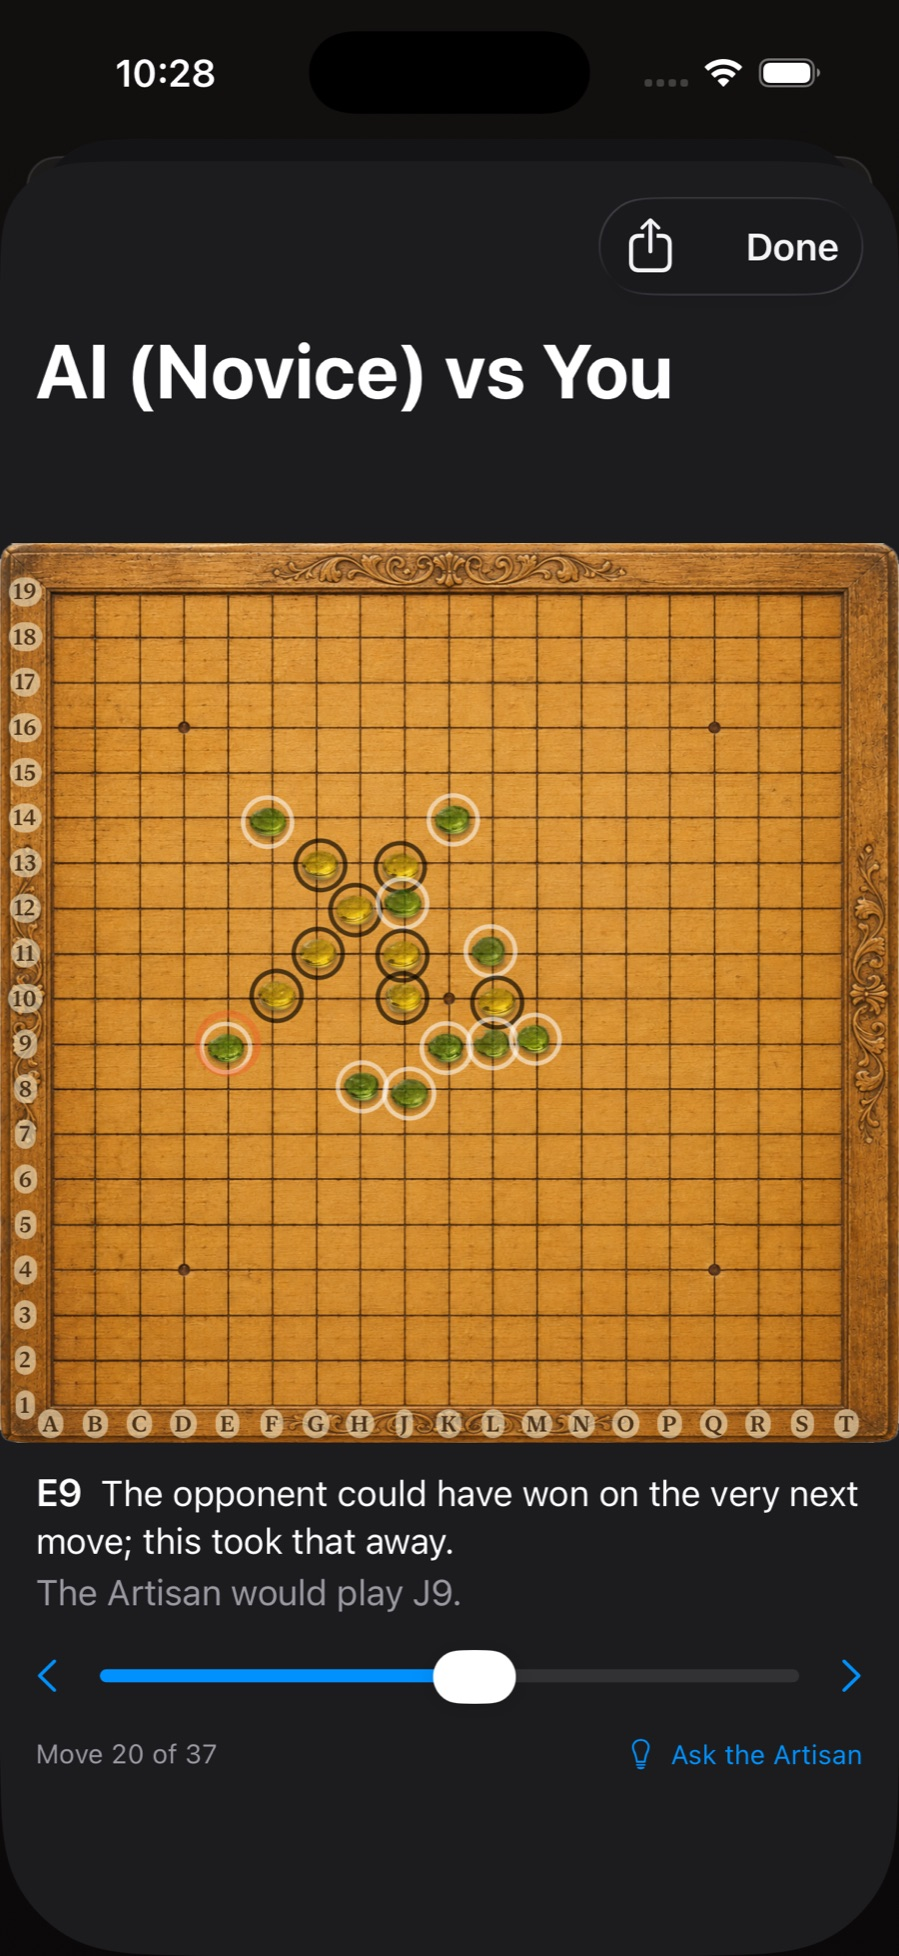
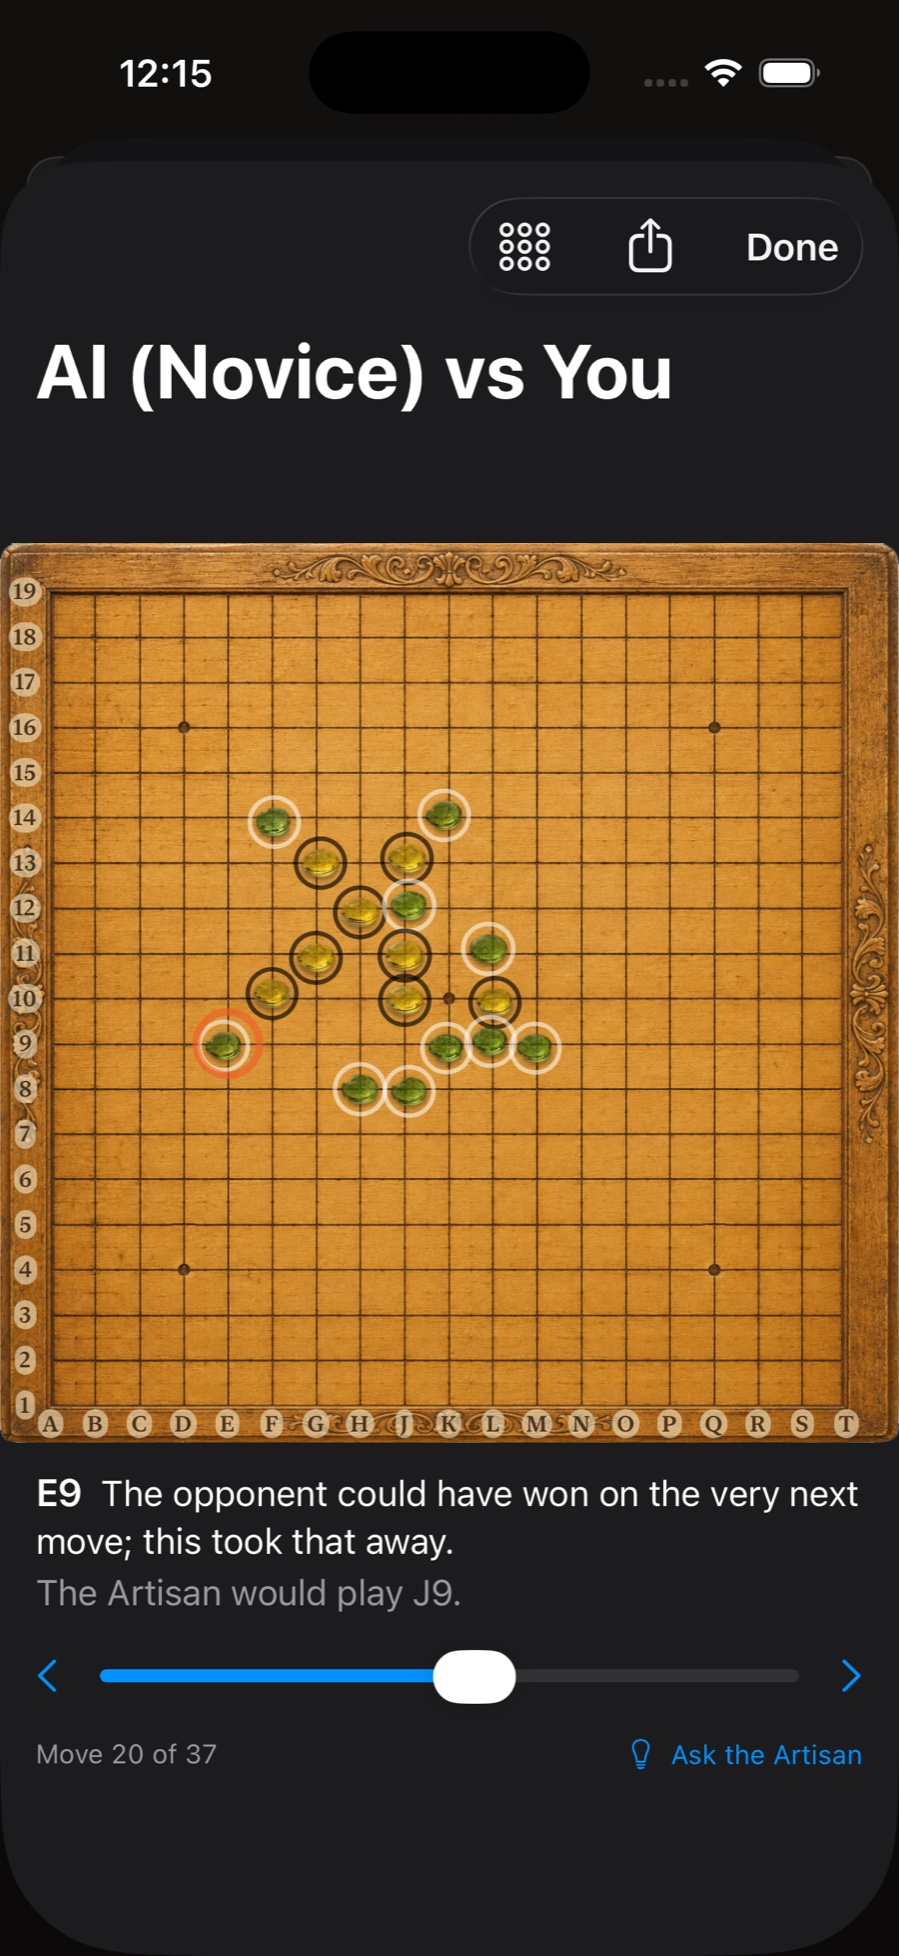
Manual review figure reshoot: the build 52 toolbar
Same composition as before -- move 20 of 37, the ring on E9, the
"could have won on the very next move" reading, and the Artisan's
J9 -- now showing the walk-back's current toolbar with Practice
From Here beside Export.

Changed region(s): [[0.218, 0.4054, 0.6229, 0.5925], [0.5606, 0.0936, 0.6229, 0.1559], [0.1246, 0.0312, 0.2492, 0.0624]]

diff --git a/manual.html b/manual.html
@@ -161,7 +161,7 @@
       <figcaption>Every finished game, kept.</figcaption>
     </figure>
     <figure>
-      <img src="screenshots/manual-review.jpg?v=3" alt="The walk-back: a mid-game position with a ring on the reviewed move, the reading 'The opponent could have won on the very next move; this took that away', the Artisan's suggestion, and a move slider" loading="lazy">
+      <img src="screenshots/manual-review.jpg?v=4" alt="The walk-back: a mid-game position with a ring on the reviewed move, the reading 'The opponent could have won on the very next move; this took that away', the Artisan's suggestion, and a move slider" loading="lazy">
       <figcaption>Move 20 of 37, with the position's reading and the Artisan's opinion.</figcaption>
     </figure>
   </div>
